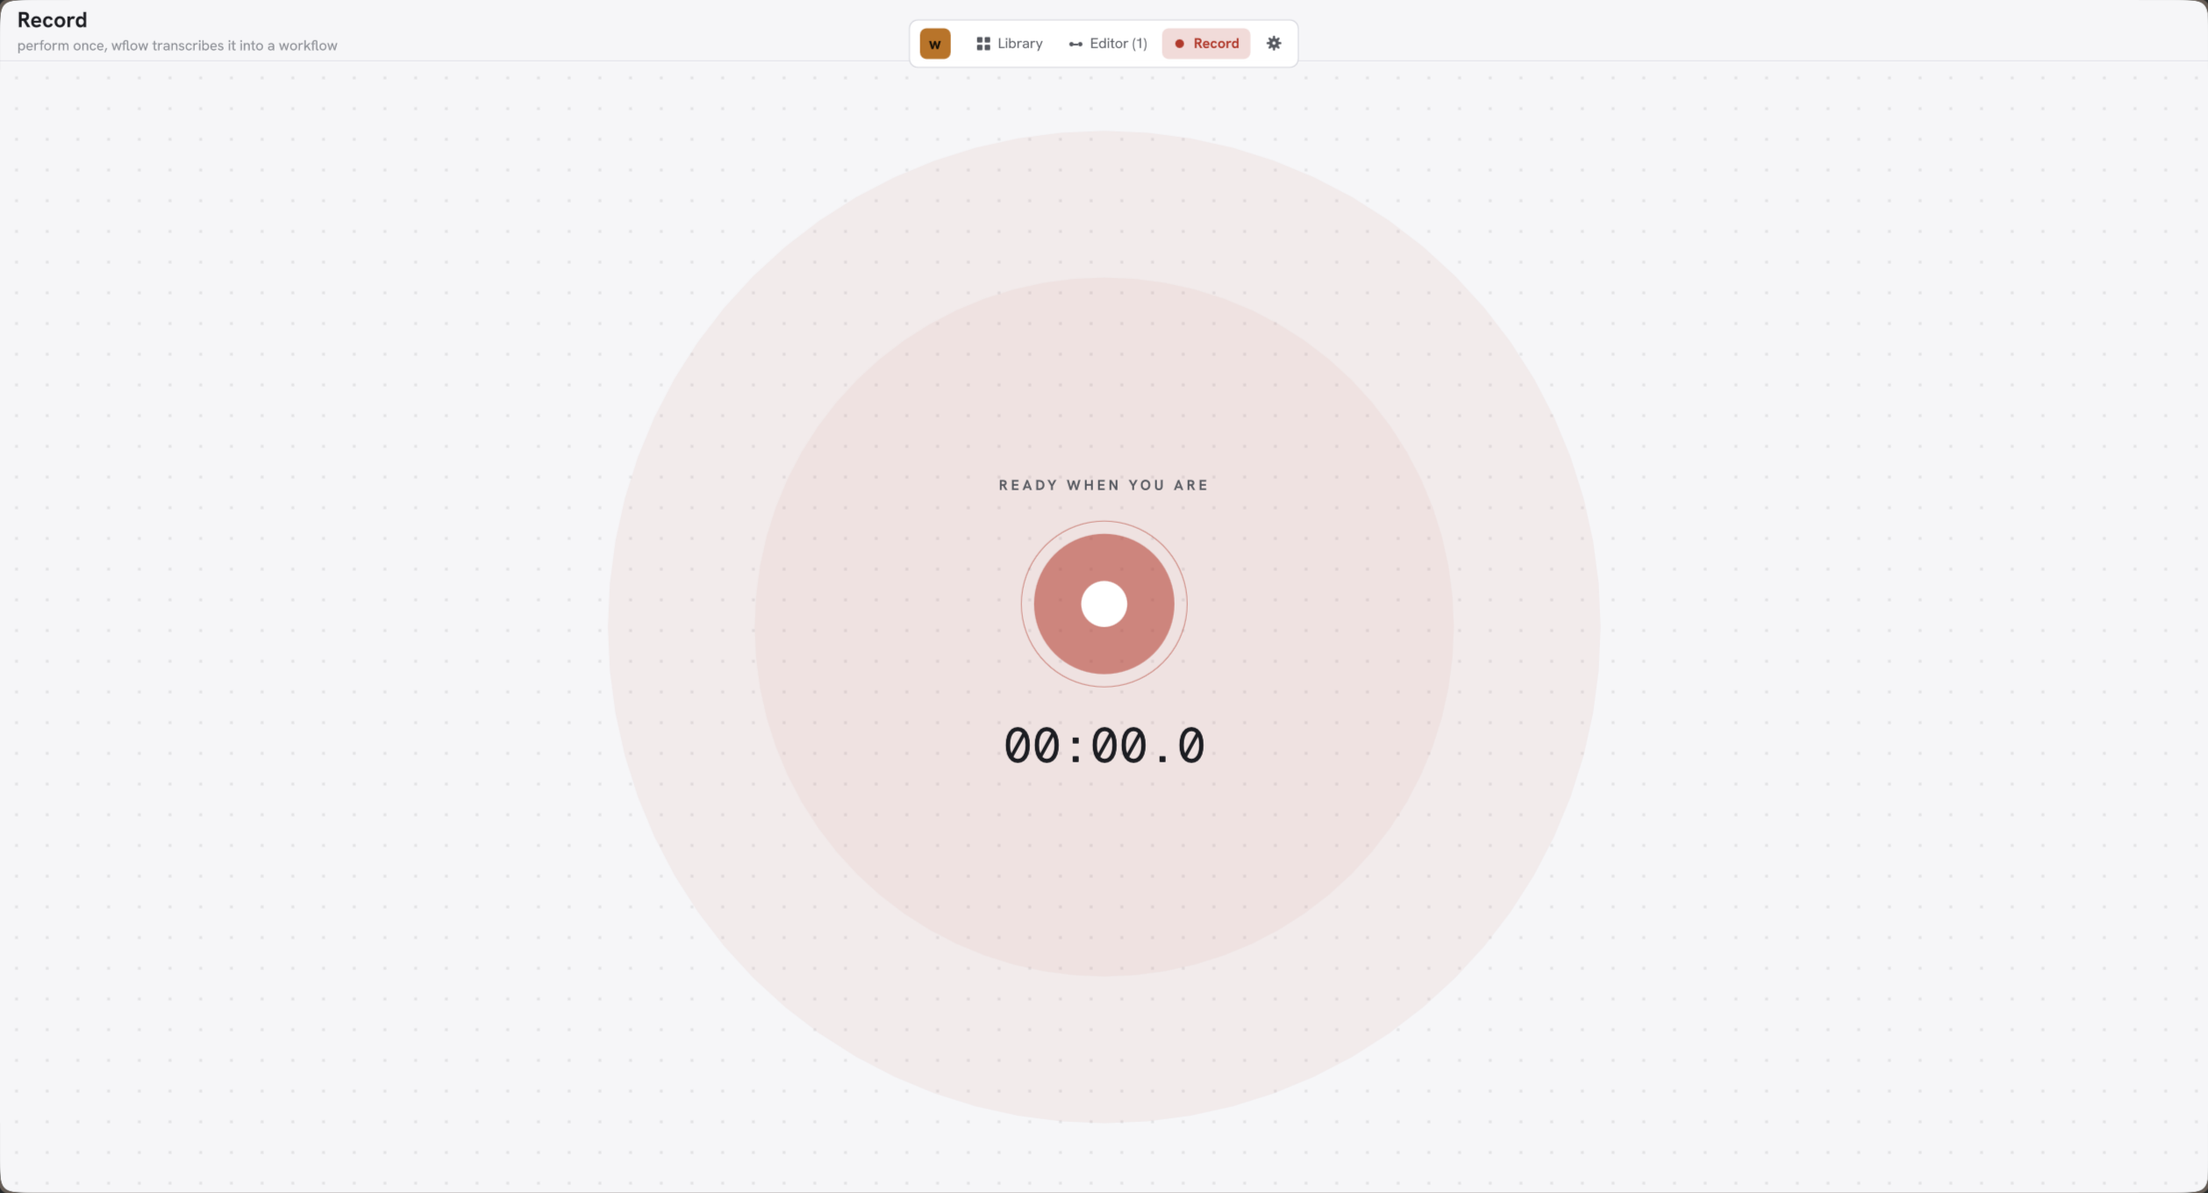
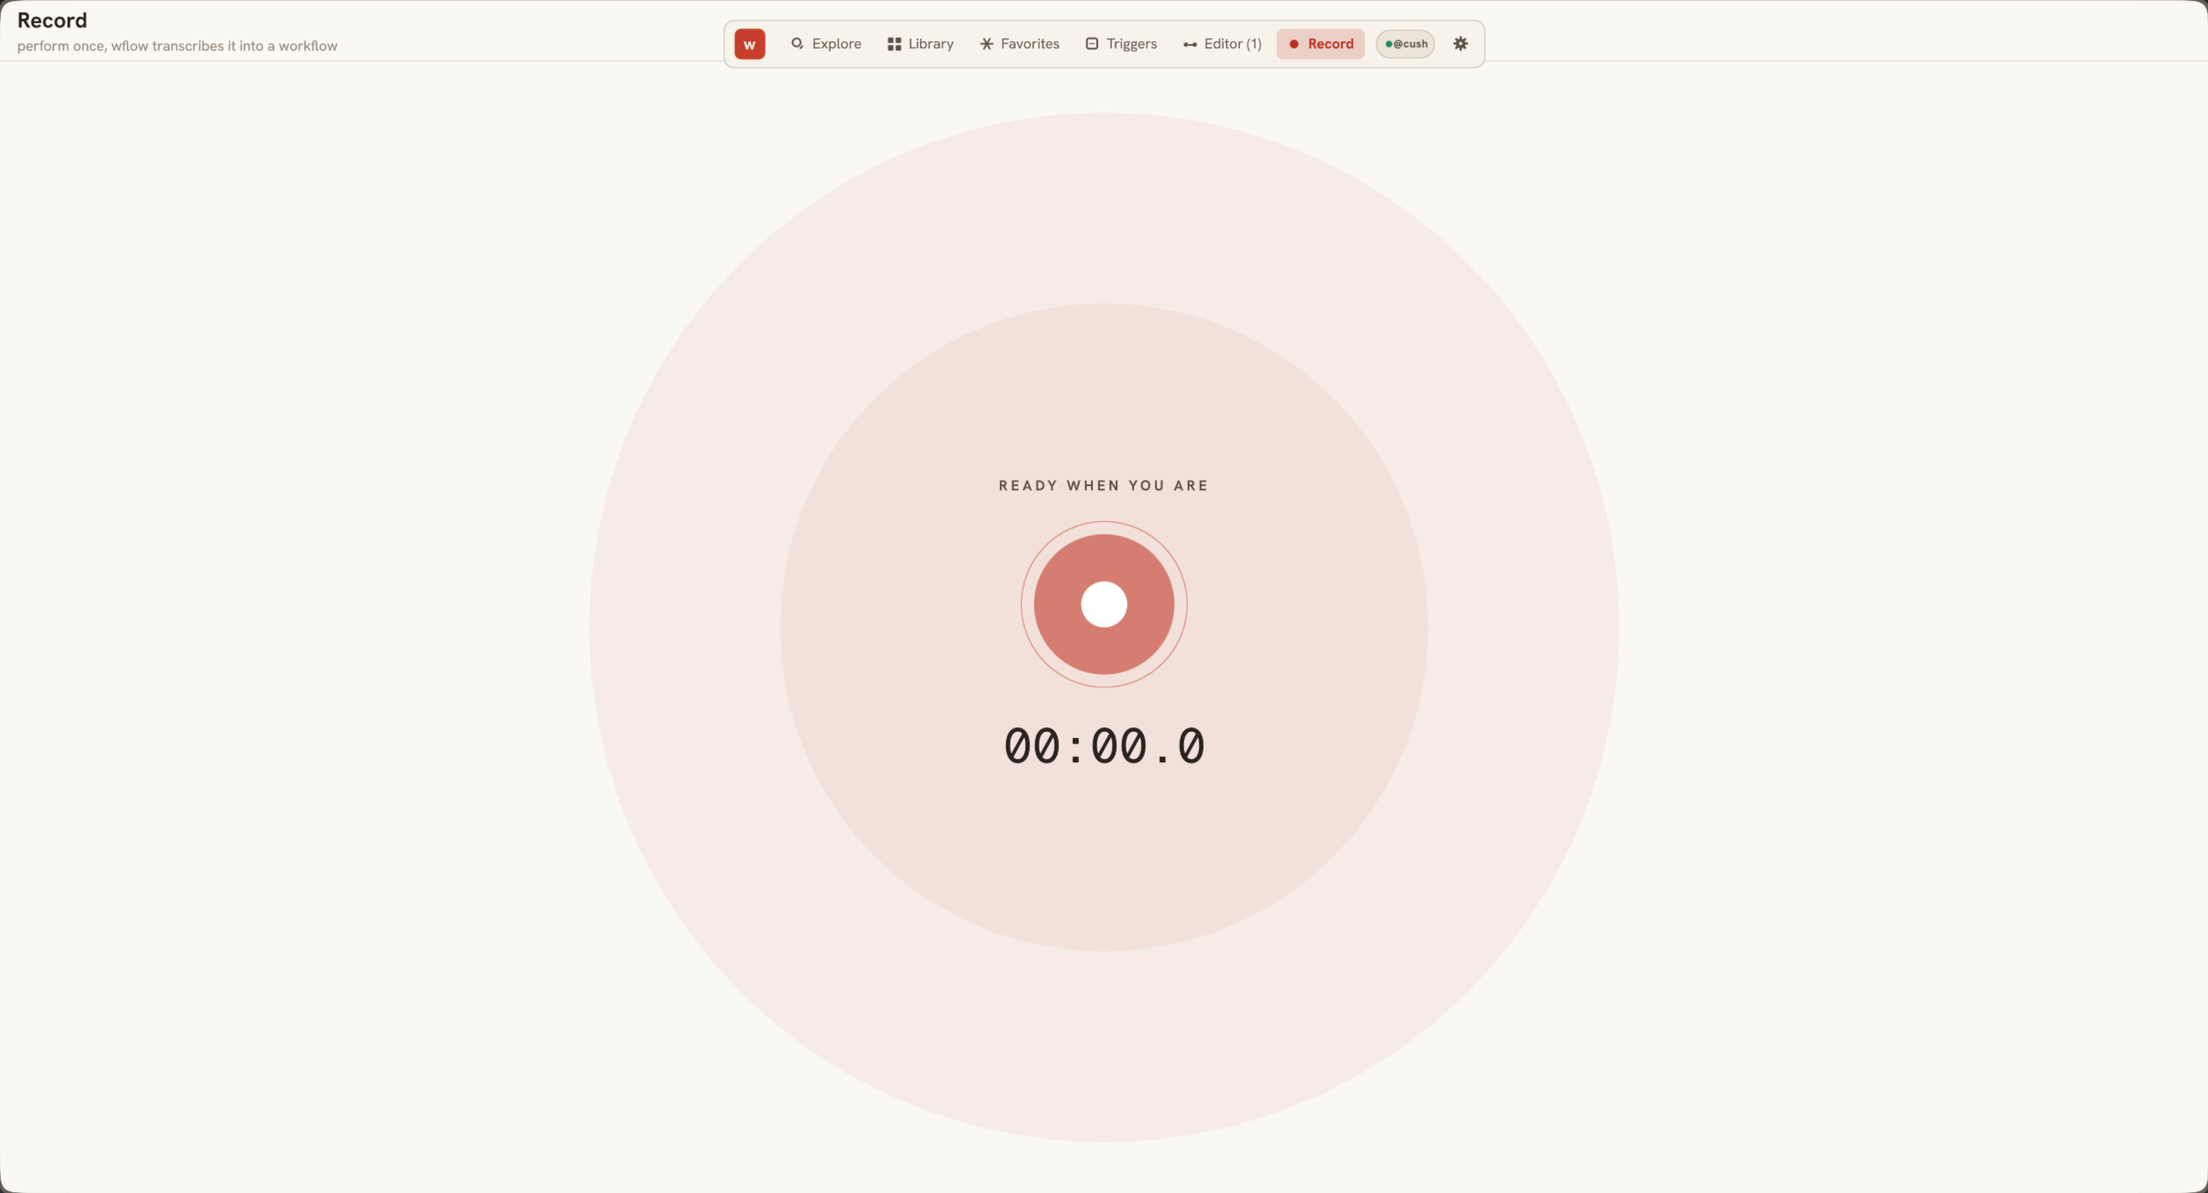
1.0.0 release
Bumps the cargo version to 1.0.0 and refreshes the README around the
v1.0 surfaces. The catalog, sign-in, publish-from-card, Triggers tab,
daemon auto-enable, and brand-domain rename to wflows.io all landed
across PRs 14 through 26; the README now leads with a fresh library
shot, replaces the old morning-sync editor capture with the Resume
coding when/else fan-out, and grows new sections for Explore,
Triggers, and Record. The KDL example block is the actual ricer-y
nvim-session demo workflow that ships in the Daily folder, not the
old long-form Slack standup.

Drops the five stale wflow-*.png assets that screenshotted the
deleted morning-sync workflow; the new captures live alongside the
design-docs set in docs/design/screenshots/claude-design/.

Updates the Status section with the v1.0.0 entry pointing at the
release notes.

diff --git a/README.md b/README.md
@@ -1,41 +1,97 @@
 # wflow
 
-**Shortcuts for Linux. GUI editor backed by plain-text workflow files.**
+**Shortcuts for Linux. GUI editor backed by plain-text workflow files,
+a global-hotkey daemon, and a community catalog at
+[wflows.io](https://wflows.io).**
 
-![wflow library — eight example workflows in a grid, each tagged with its action types](assets/screenshots/wflow-library.png)
+![wflow library, five workflow cards plus a Daily folder, each tagged with its action types](docs/design/screenshots/claude-design/library-grid.dark.png)
 
 A Qt Quick app for building, editing, recording, and replaying desktop
 workflows on Wayland. Pick a template or start blank, edit the steps,
 hit Run, watch each step report back. Or skip the editor entirely and
 hand-write the file in `$EDITOR`. Both paths produce the same output.
 
-Built on [wdotool-core](https://github.com/cushycush/wdotool) for
-input injection — linked in process, no `wdotool` binary required at
-runtime.
+Built on [wdotool-core](https://github.com/cushycush/wdotool) for input
+injection, linked in process, no `wdotool` binary required at runtime.
 
 ## The editor
 
-Free-positioning canvas. Drag chips from the palette dock on the left to
-drop a step anywhere; wires auto-route between consecutive steps; conditionals
-render as branch shapes with explicit yes/no outputs; repeat is a container
-with an inline strip of inner rows. Smart Tidy on the right-side tool dock
-picks the layout that keeps cards readable at the closest-to-1.0 zoom.
+Free-positioning canvas. Drag chips from the palette dock on the left
+to drop a step anywhere; wires auto-route between consecutive steps;
+conditionals render as branch shapes with explicit yes/no outputs;
+repeat is a container with an inline strip of inner rows. Smart Tidy
+on the right-side tool dock picks the layout that keeps cards readable
+at the closest-to-1.0 zoom.
 
-![Morning sync workflow open in the editor — eleven steps, a yes/no conditional, a repeat container with an inner step, and three coloured group rectangles annotating the update / verify / share sections](assets/screenshots/wflow-editor.png)
+![Resume coding workflow open in the editor, four steps with a when/else block fanning into two branches](docs/design/screenshots/claude-design/editor-canvas.dark.png)
 
-Multi-select with shift- or ctrl-click; lasso a region with shift- or
-ctrl-drag; alt-drag to draw a coloured group rectangle behind cards as a
-visual annotation. Selection highlights live as the marquee crosses cards.
-
-![The same workflow with a marquee dragged around four cards on the right side, all highlighted as the rect moves](assets/screenshots/wflow-multiselect.png)
+The pinned trigger card at the top-left of the canvas surfaces the
+chord binding for the workflow, so you don't have to read the KDL to
+know what fires it. Multi-select with shift- or ctrl-click; lasso a
+region with shift- or ctrl-drag; alt-drag to draw a coloured group
+rectangle behind cards as a visual annotation.
 
 Step-by-step debugger. ⏯ Debug pauses the engine between every action;
 Step / Continue / Stop are the controls. The active card pulses; each
 step's status dot settles to green / red / grey on outcome. Repeat
-inner steps each get their own dot and pulse on every iteration so loops
-are easy to read.
+inner steps each get their own dot and pulse on every iteration so
+loops are easy to read.
 
-![The editor in debug mode — the run controls have flipped to Step / Continue / Stop, the conditional card is highlighted as the active step, and the status dots show the steps that have already finished](assets/screenshots/wflow-debug.png)
+## Explore
+
+A community catalog of workflows lives at
+[wflows.io](https://wflows.io). Sign in from Settings → Account, browse
+from the Explore tab, click any card to import it.
+
+![Explore tab, featured row plus browse grid, each card tagged with action types and install / star counts](docs/design/screenshots/claude-design/explore-grid.dark.png)
+
+The detail drawer parses the inline KDL through the same decoder the
+runner uses, so the step preview is exactly what the engine would
+execute. Install and star counts come from the live API. Importing
+shows a confirm dialog with title, author, description, and step
+count before anything writes to disk, a drive-by page that opens
+`wflow://import?source=...` in your browser can't silently install
+something you didn't intend to keep.
+
+When you're signed in, every card in your local Library grows a small
+"↑ Publish" pill in the top-right corner. Click it, fill in the
+description, tags, and visibility, hit publish, and your workflow
+posts to wflows.io. The KDL on disk is the source of truth, no
+copy-paste, no reformatting.
+
+## Triggers
+
+`wflow daemon` is a long-lived background process that binds every
+chord declared in your library and dispatches the right workflow when
+one fires. It picks the GlobalShortcuts portal on Plasma 6 and GNOME
+46+, and falls back to compositor IPC on Hyprland and Sway.
+
+![Triggers tab, list of bound workflows with their chords](docs/design/screenshots/claude-design/triggers-tab.dark.png)
+
+Author chords inside each workflow's KDL (`trigger { chord
+"super+shift+c" }`) or use the Triggers tab in the GUI. Either way the
+daemon's file watcher picks up changes in real time on Hyprland and
+Sway; portal-mode users restart the daemon to apply trigger changes
+(the GlobalShortcuts portal binds shortcuts once per session by spec).
+
+The first time you launch the GUI it offers to enable the systemd user
+unit so the daemon starts on every login.
+
+## Record
+
+Walk through the actions you want to replay, stop, the captured stream
+becomes a new workflow.
+
+![Record tab, idle state, big amber button waiting](docs/design/screenshots/claude-design/record-idle.dark.png)
+
+Record uses `org.freedesktop.portal.RemoteDesktop` on Plasma 6 and
+GNOME 46+ (explicit consent dialog, no extra permissions). On
+Hyprland, Sway, and other wlroots compositors that don't ship the
+portal interface yet, Record falls back to reading
+`/dev/input/event*` directly via `evdev`. That requires being in the
+`input` group: `sudo usermod -aG input $USER` then log out and back
+in. If neither path is available, Record shows a clear setup error
+instead of silently capturing nothing.
 
 ## Install
 
@@ -47,27 +103,25 @@ paru -S wflow              # builds from source, ~5min on a fast machine
 paru -S wflow-git          # tracks main, builds from source
 ```
 
-`wflow-bin` is the same binary the GitHub release ships. Install
-it if you want to skip the cargo build; install `wflow` if you
-prefer a from-source build with your local rustc + LTO.
+`wflow-bin` is the same binary the GitHub release ships. Install it if
+you want to skip the cargo build; install `wflow` if you prefer a
+from-source build with your local rustc + LTO.
 
 PKGBUILDs in [`packaging/aur/`](packaging/aur/) for local builds.
 
 ### From source
 
-Requires Rust 1.77+ and Qt 6 development headers (`qt6-base`,
-`qt6-declarative` on Arch; `qt6-base-dev`, `qt6-declarative-dev` on
-Debian/Ubuntu).
+Requires Rust 1.77+ and Qt 6.11+ (`qt6-base`, `qt6-declarative`,
+`qt6-quickcontrols2` on Arch; equivalents on Debian/Ubuntu).
 
 ```sh
 cargo install --path . --locked
 ```
 
-For desktop notifications and clipboard actions, install
-`libnotify` (for `notify-send`) and `wl-clipboard` (for `wl-copy`)
-through your distro. Input/window automation goes through
-`wdotool-core` linked into wflow itself — no separate binary to
-install.
+For desktop notifications and clipboard actions, install `libnotify`
+(for `notify-send`) and `wl-clipboard` (for `wl-copy`) through your
+distro. Input/window automation goes through `wdotool-core` linked
+into wflow itself, no separate binary to install.
 
 ### Prebuilt tarball
 
@@ -83,9 +137,6 @@ submission lands once the last host-machine verification item closes.
 For now: build locally with `./packaging/flatpak/build-local.sh`.
 
 ### Auto-start on login
-
-If you're using global-hotkey triggers, you'll want the daemon running
-every time you sign in. Use the bundled systemd user unit:
 
 ```sh
 # AUR / Flatpak / distro package: the unit is already at
@@ -106,47 +157,7 @@ daemon starts with KDE / GNOME / Hyprland / Sway and stops on logout.
 If you installed via `cargo install --path .` and your user systemd
 hasn't been told about `~/.cargo/bin`, edit `ExecStart=wflow daemon`
 in the unit file to an absolute path like
-`ExecStart=%h/.cargo/bin/wflow daemon`. Systemd's user environment
-doesn't always inherit your shell's PATH.
-
-## Building a workflow
-
-Launch wflow. The first time, you get a welcome card with two paths:
-
-- **`+ New workflow`** opens a dialog with three tabs:
-  - **Blank** drops you into the editor with no steps and a tooltip
-    on `+ Add step` showing what to do first.
-  - **From template** lists eight hand-authored examples covering
-    shell, key chords, window focus, conditionals, retries, fragment
-    imports, and the full Record-mode output shape. Pick one, it
-    copies into your library, and the editor opens on the copy.
-  - **Record** opens the recorder. Walk through the actions you want
-    to replay, stop, the captured stream becomes a new workflow.
-- **`● Record`** shortcuts straight to the recorder if you already
-  know that's what you want.
-
-Record uses `org.freedesktop.portal.RemoteDesktop` on Plasma 6 and
-GNOME 46+ (explicit consent dialog, no extra permissions). On
-Hyprland, Sway, and other wlroots compositors that don't ship the
-portal interface yet, Record falls back to reading
-`/dev/input/event*` directly via `evdev`. That requires being in
-the `input` group, which you can do with
-`sudo usermod -aG input $USER` (then log out and back in). If
-neither path is available, Record shows a clear setup error
-instead of silently capturing nothing.
-
-The editor is split: step list on the left, inspector on the right.
-The inspector shows the value field plus per-action options (skip,
-on-error, retries / backoff / timeout for shell, clear-modifiers for
-key, delay-per-character for type). Saving is automatic, debounced
-~600ms after your last keystroke. The save indicator at the top tells
-you where it is in the cycle.
-
-Hit **Run** to execute. Each step reports an outcome (`✓ ok`, `· skipped`,
-`✗ error`) inline in the step list as the engine works through them.
-Use **`Run --dry-run`** equivalents from the CLI if you want a no-op
-preview, or **`wflow run --explain`** to see the literal subprocess
-commands each step would invoke.
+`ExecStart=%h/.cargo/bin/wflow daemon`.
 
 ## Workflows as plain text
 
@@ -155,35 +166,39 @@ workflow. Diff it in git, hand-edit it in `$EDITOR`, share it as a
 single file. No proprietary container, no binary blob.
 
 ```kdl
-workflow "Morning standup" {
-    subtitle "open slack, focus the channel, paste the daily message"
-
+workflow "Resume coding" {
+    subtitle "ghostty + nvim, restore the session if there is one"
     vars {
-        channel "#standup-platform"
+        project "~/projects/wflow"
+        session "~/.local/share/nvim/sessions/wflow.vim"
     }
-
-    shell "hyprctl dispatch exec 'slack'"
-    wait-window "Slack" timeout="20s"
-    focus "Slack"
-    key "ctrl+k" clear-modifiers=#true
-    type "{{channel}}" delay-ms=15
-    key "Return"
-    shell "date +%H:%M" as="now"
-    notify "standup ready" body="checked in at {{now}}"
+    trigger {
+        chord super+shift+c
+    }
+    shell "hyprctl dispatch exec 'ghostty --working-directory={{project}}'"
+    wait-window Ghostty timeout-ms=4000
+    when file="{{session}}" {
+        type "nvim -S {{session}}"
+        else {
+            type "nvim ."
+        }
+    }
+    key Return
 }
 ```
 
-Same workflow as the screenshot above. The GUI is a view onto this
-file. Edit either side, the other catches up.
+Same workflow as the editor screenshot above. The GUI is a view onto
+this file. Edit either side, the other catches up.
 
-The full vocabulary (every action, every property, how each one runs)
-is in [`docs/KDL.md`](docs/KDL.md). Variables, conditionals (`when` /
-`unless`), loops (`repeat`), shared fragments (`include` / `imports`),
-shell retries with backoff, window-wait predicates: all there.
+The full vocabulary lives in the [docs](https://wflows.io/docs).
+Variables, conditionals (`when` / `unless` with `else`), loops
+(`repeat`), shared fragments (`include` / `imports`), shell retries
+with backoff, window-wait predicates: all there.
 
-The filename is the id. `dev-setup.kdl` runs as `wflow run dev-setup`.
-Timestamps live in `~/.config/wflow/workflows.toml`, not the workflow
-file, so a `git diff` shows what you actually changed.
+The filename is the id. `resume-coding.kdl` runs as `wflow run
+resume-coding`. Timestamps live in `~/.config/wflow/workflows.toml`,
+not the workflow file, so a `git diff` shows what you actually
+changed.
 
 ### Where workflows live
 
@@ -192,7 +207,8 @@ $XDG_CONFIG_HOME/wflow/workflows/
 ```
 
 Usually `~/.config/wflow/workflows/`. One `.kdl` file per workflow.
-Put the directory under git if you want version-controlled automation.
+Subdirectories show as folders in the GUI. Put the directory under git
+if you want version-controlled automation.
 
 ### Examples
 
@@ -215,15 +231,15 @@ The GUI is the front door. The CLI is for cron, keybinds, and
 pipelines. Same engine, no Qt.
 
 ```sh
-wflow run morning-standup              # by id from the library
+wflow run resume-coding                # by id from the library
 wflow run ./path/to/file.kdl --yes     # by path, skip the trust prompt
 wflow run --dry-run ...                # don't execute, just print
 wflow run --explain ...                # print the literal subprocess commands
 wflow list                             # show the library
-wflow show morning-standup             # pretty-print the steps
+wflow show resume-coding               # pretty-print the steps
 wflow validate examples/*.kdl          # parse, no execution (CI-friendly)
 wflow doctor                           # check required binaries on PATH
-wflow migrate                          # convert pre-v0.4 files in place
+wflow daemon                           # run the trigger daemon
 wflow new "title"                      # scaffold a new workflow
 wflow ids                              # one-per-line, for shell completion
 ```
@@ -237,41 +253,25 @@ full man page is `wflow man` (one page per subcommand if you pass
 
 ## Status
 
-- **v0.1.0** — CLI runner, first cut of the KDL format, GUI as a viewer.
-- **v0.2.0** — Full KDL language; GUI editor with value/option/title
-  editing, add/delete/reorder; real ashpd + libei Record backend; man
-  pages; AUR PKGBUILDs; dual MIT/Apache-2.0 license.
-- **v0.3.0** — First public release. Welcome card + New-workflow dialog
-  with templates; first-run trust prompt for unfamiliar workflow files
-  (CLI + GUI, see [`REVIEW.md`](REVIEW.md)); Flatpak manifest with
-  host-spawn redirect; GitHub Actions CI + draft-release-on-tag.
-- **v0.4.0** — Editor grows up. Free-positioning canvas, branch shapes
-  for conditionals, repeat container, multi-select + marquee, undo /
-  redo, group rectangles, step-by-step debugger, run-feedback dots,
-  fragment imports.
-- **v0.4.1** — Left-rail selection follows the canvas marquee in real
-  time as the rect moves.
-- **v0.5.0** — Brand-palette release. Two skins (Warm Paper / Cool
-  Slate) with full light + dark coverage, first-run picker, switch
-  any time from Settings.
-- **v0.6.0** — Conditionals get a real false branch. `when` and
-  `unless` accept an `else { ... }` block, the canvas draws the
-  no-side as a parallel column or row across every layout, the
-  inspector grew a FALSE BRANCH section. Plus wire-routing cleanup
-  and a first-load auto-fit fix.
+- **v0.1.0 – v0.4.1**: CLI runner; KDL language; GUI editor with
+  templates; recording; first-run trust prompt; AUR + Flatpak +
+  GitHub Actions release flow.
+- **v0.5.0**: Two brand skins (Warm Paper / Cool Slate), full light +
+  dark coverage, first-run picker, switcher in Settings.
+- **v0.6.0**: Conditionals get a real false branch. `when` / `unless`
+  accept an `else { ... }` block; canvas draws the no-side as a
+  parallel column or row across every layout.
 - **v0.7.0**: Trigger daemon. `wflow daemon` binds keyboard chords
   to workflows on KDE Plasma 6, GNOME 46+, Hyprland, and Sway.
-  GlobalShortcuts portal first, compositor IPC fallback. Hot-reload
-  on workflow library changes, single-instance pidfile lock,
-  bundled systemd user unit for autostart on login. Picks up
-  wdotool-core 0.5's wlroots roundtrip fix.
-- **next** — Hotstrings (text expansion), per-window conditional
-  hotkeys, Triggers tab in the GUI, Flathub submission. Plus the
-  wflows.io integration push toward v1.0 (Explore re-enabled,
-  deeplink import confirm dialog, detail drawer with live data).
+- **v1.0.0**: The catalog goes live. Explore is on, the desktop
+  signs in to wflows.io, one-click import via `wflow://`, publish
+  from the library card, Triggers tab in the GUI, daemon
+  auto-enable on first GUI run, brand-domain rename to wflows.io.
+  See [`docs/release-notes/v1.0.0.md`](docs/release-notes/v1.0.0.md).
 
-See `CLAUDE.md` for architecture notes and design decisions, and
-[`CHANGELOG.md`](CHANGELOG.md) for what shipped in each release.
+See [`CLAUDE.md`](CLAUDE.md) for architecture notes and design
+decisions, and [`CHANGELOG.md`](CHANGELOG.md) for what shipped in each
+release.
 
 ## License
 
